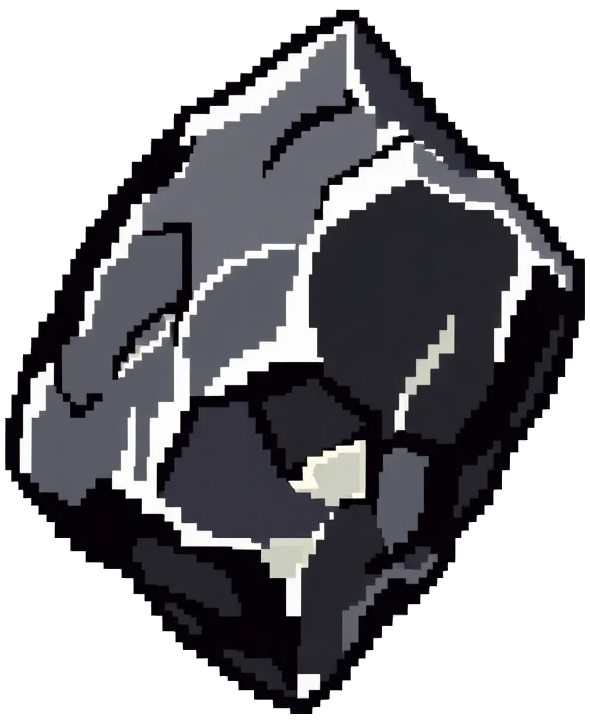
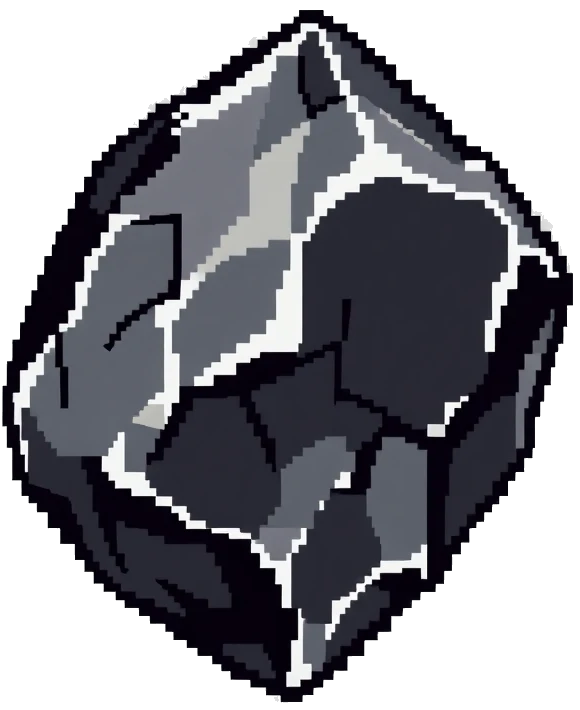
v6: Small stone and Cracked pebble look like they are using the same asset image please fix this so that all items in our new mining have unique asset imges. id say the current one looks more like cracked pebble so keep it as cracked pebble but update ro

Changed region(s): [[0.0, 0.0, 0.9931, 0.9915], [0.3724, 0.8056, 0.4034, 0.8366]]

diff --git a/src/item-data-mining.js b/src/item-data-mining.js
@@ -93,11 +93,11 @@ export const ITEM_NAMES_MINING = {
 
 export const ITEM_ICONS_MINING = {
     // TIER 1
-    small_stone: 'item_stone_fragments.png',
+    small_stone: 'item_mining_small_stone.png',
     cracked_pebble: 'item_stone_fragments.png',
-    rough_flint: 'item_stone_fragments.png',
-    dull_shard: 'item_stone_fragments.png',
-    limestone_chunk: 'item_stone_fragments.png',
+    rough_flint: 'item_mining_rough_flint.png',
+    dull_shard: 'item_mining_dull_shard.png',
+    limestone_chunk: 'item_mining_limestone_chunk.png',
     chalk_dust: 'item_cosmic_dust.png',
     fossil_fragment: 'item_ancient_scrap.png',
     ancient_shell: 'item_ancient_scrap.png',
